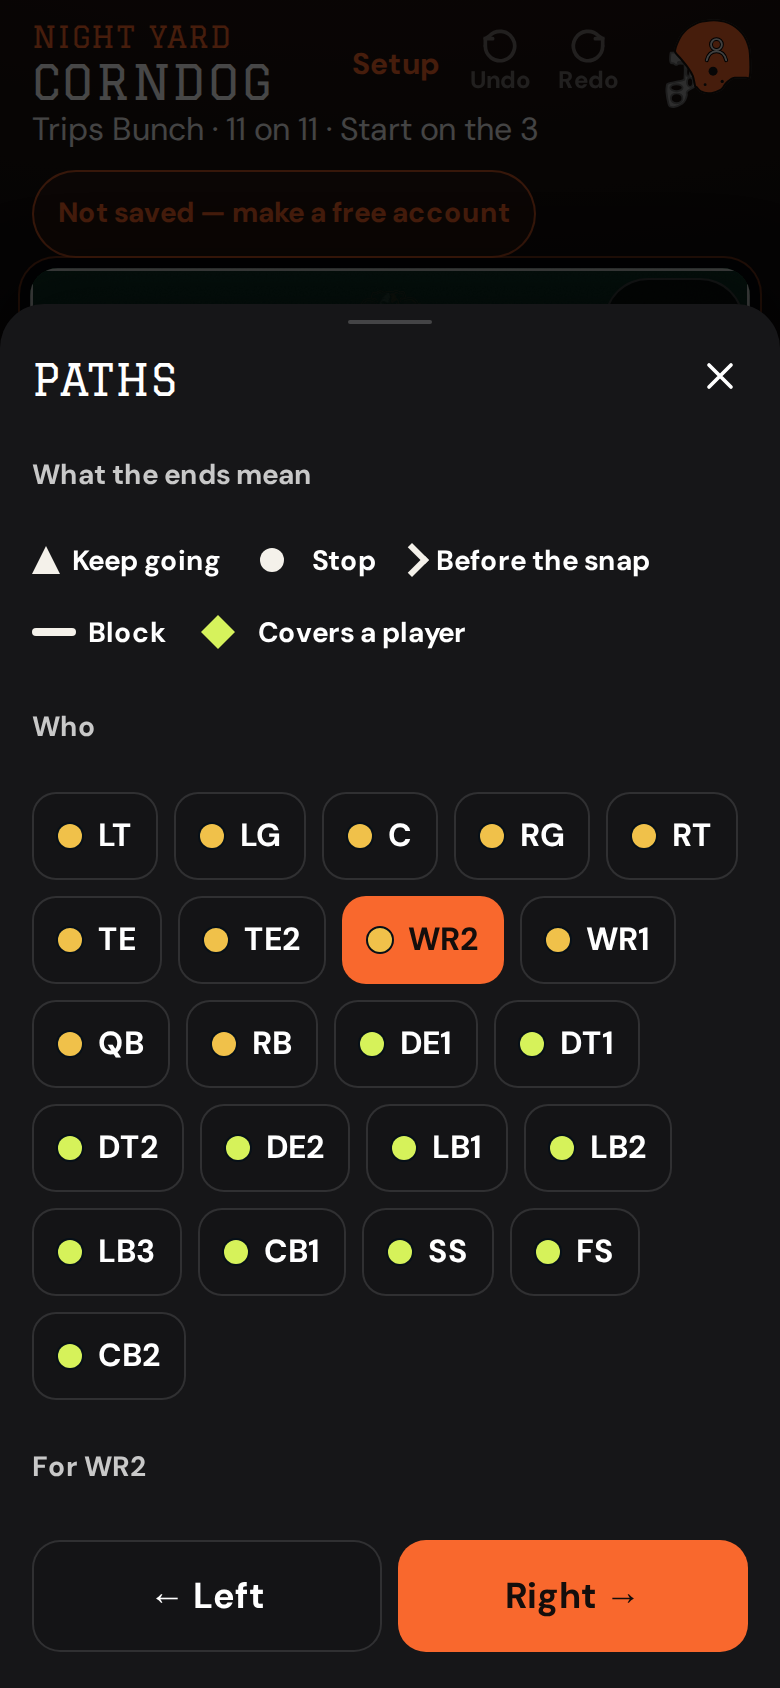
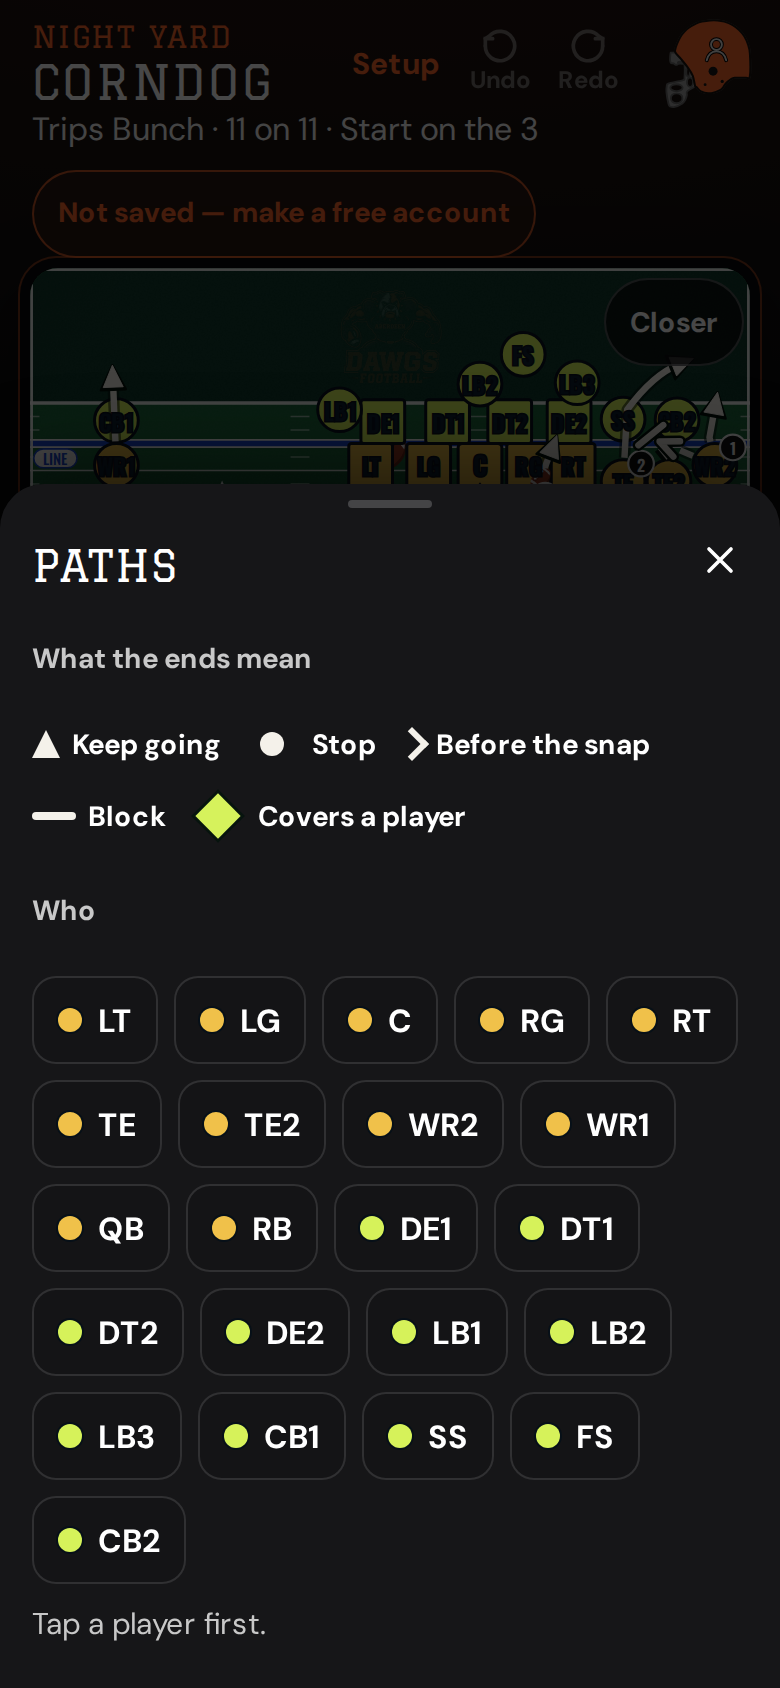
Let a short route bend when the finger is on the plus.
The nearest handle wins, man diamonds meet the line, and an unnamed playbook prints Night Yard once.

diff --git a/src/fieldMarkup.ts b/src/fieldMarkup.ts
@@ -113,7 +113,6 @@ function trimStroke(stroke: Stroke, yards: number): Stroke {
 }
 
 function headMarkup(kind: HeadKind, tip: Point, dir: Point, ink: RouteInk, color: string, halo: string, zone: { rx: number; ry: number } | null, scale: number, print: boolean): string {
-  const round = (ink.phone ? 1 : 1) / Math.max(ink.stroke / 3.2, 0.2)
   if (kind === 'zone' && zone) {
     const fill = print ? 'none' : color
     const opacity = print ? '' : ' fill-opacity="0.18"'
@@ -155,8 +154,9 @@ function headMarkup(kind: HeadKind, tip: Point, dir: Point, ink: RouteInk, color
     const uy = dir.y / len
     const px = -uy
     const py = ux
-    const reach = ink.head * 0.42
-    const wide = ink.headWidth * 0.28
+    const unit = (ink.phone ? 3.2 : 4) / ink.stroke
+    const reach = (ink.phone ? 8 : 9) / unit
+    const wide = reach * 0.72
     const pts = [
       { x: tip.x + ux * reach, y: tip.y + uy * reach },
       { x: tip.x + px * wide, y: tip.y + py * wide },
@@ -164,7 +164,8 @@ function headMarkup(kind: HeadKind, tip: Point, dir: Point, ink: RouteInk, color
       { x: tip.x - px * wide, y: tip.y - py * wide },
     ]
     const d = `M${pts.map((point) => `${point.x.toFixed(2)} ${point.y.toFixed(2)}`).join(' L')} Z`
-    return `<path d="${d}" fill="${halo}" stroke="${halo}" stroke-width="${ink.halo.toFixed(2)}" stroke-linejoin="round"/><path d="${d}" fill="${color}" stroke="${color}" stroke-width="${(round * 0.4).toFixed(2)}" stroke-linejoin="round"/>`
+    const edge = (1.6 / unit).toFixed(2)
+    return `<path d="${d}" fill="${halo}" stroke="${halo}" stroke-width="${edge}" stroke-linejoin="round"/><path d="${d}" fill="${color}" stroke="${halo}" stroke-width="${(1.1 / unit).toFixed(2)}" stroke-linejoin="round"/>`
   }
   const d = arrowPath(tip, dir, ink.head, ink.headWidth)
   const haloPath = arrowPath(tip, dir, ink.head + ink.halo, ink.headWidth + ink.halo * 2)
@@ -192,7 +193,8 @@ function routeParts(stroke: Stroke, play: Play, camera: Camera, theme: Theme, se
   if (shown.points.length < 2) return { body: '', head: '' }
   const { w, h } = viewSize(camera)
   const ink = routeInk(pxPerUnit, pxPerUnit * w, false)
-  shown = settleEnds(shown, play, ink.head / camera.scale)
+  const diamondHalf = (ink.phone ? 8 : 9) / pxPerUnit / camera.scale
+  shown = settleEnds(shown, play, headKind(shown) === 'diamond' ? diamondHalf : ink.head / camera.scale)
   const weight = selected ? 1.25 : 1
   const color = routeColor(shown, play, theme)
   const halo = theme.outlineOnly ? '#ffffff' : theme.routeOutline
@@ -202,14 +204,16 @@ function routeParts(stroke: Stroke, play: Play, camera: Camera, theme: Theme, se
   const fieldDir = segmentTangent(prev, end, shown.curves[shown.curves.length - 1] ?? null, 1)
   const dir = { x: fieldDir.x, y: -fieldDir.y }
   const tip = keepTipOnField(fieldToSvg(end, camera), dir, ink.head * 0.55, w, h)
-  const trimYards = kind === 'zone' ? 0 : ink.trim / camera.scale
+  const trimYards = kind === 'zone' ? 0 : kind === 'diamond' ? (ink.phone ? 8 : 9) / pxPerUnit / camera.scale : ink.trim / camera.scale
   const bodyStroke = trimStroke(shown, trimYards)
   const d = pathD(bodyStroke, camera)
   const dashed = shown.kind === 'motion'
   const dash = dashed ? ` stroke-dasharray="${ink.motionOn.toFixed(2)} ${ink.motionOff.toFixed(2)}"` : ''
   const opacity = dim ? ' opacity="0.65"' : ''
   const start = fieldToSvg(bodyStroke.points[0], camera)
-  const haloW = ((ink.stroke + ink.halo * 2) * weight).toFixed(2)
+  const haloPad = kind === 'bar' ? ink.halo * 3.2 : ink.halo * 2
+  const haloW = ((ink.stroke + haloPad) * weight).toFixed(2)
+  const haloOpacity = kind === 'bar' ? '0.95' : '0.55'
   const innerW = (ink.stroke * weight).toFixed(2)
   const highlight = selected
     ? `<path d="${d}" fill="none" stroke="#ffffff" stroke-width="${ink.highlight.toFixed(2)}" stroke-linecap="butt" stroke-linejoin="round"${dash} opacity="0.9"/>`
@@ -230,7 +234,7 @@ function routeParts(stroke: Stroke, play: Play, camera: Camera, theme: Theme, se
   const attrs = `${shown.preset ? ` data-preset="${shown.preset}"` : ''}${isZonePreset(shown.preset) ? ' data-zone="1"' : ''}${opacity}`
   return {
     body: `<g data-layer="route" data-stroke-id="${shown.id}"${attrs}>
-      <path d="${d}" fill="none" stroke="${halo}" stroke-width="${haloW}" stroke-linecap="butt" stroke-linejoin="round"${dash} stroke-opacity="0.55"/>
+      <path d="${d}" fill="none" stroke="${halo}" stroke-width="${haloW}" stroke-linecap="butt" stroke-linejoin="round"${dash} stroke-opacity="${haloOpacity}"/>
       <path d="${d}" fill="none" stroke="${color}" stroke-width="${innerW}" stroke-linecap="butt" stroke-linejoin="round"${dash}/>
       ${highlight}${ball}
     </g>`,
@@ -273,14 +277,36 @@ function settleEnds(stroke: Stroke, play: Play, headYards: number): Stroke {
   const ux = dx / len
   const uy = dy / len
   const far = Math.max(len, min)
-  return {
-    ...stroke,
-    points: [
-      { x: center.x + ux * reach, y: center.y + uy * reach },
-      { x: center.x + ux * far, y: center.y + uy * far },
-    ],
-    curves: [null],
+  const start = { x: center.x + ux * reach, y: center.y + uy * reach }
+  const tip = clearOfPlayers(start, { x: center.x + ux * far, y: center.y + uy * far }, play, owner.id)
+  return { ...stroke, points: [start, tip], curves: [null] }
+}
+
+/** Slide a block stem sideways until it misses the other names. */
+function clearOfPlayers(start: Point, end: Point, play: Play, ownerId: string): Point {
+  let tip = { ...end }
+  for (let pass = 0; pass < 4; pass++) {
+    for (const player of play.players) {
+      if (player.id === ownerId) continue
+      const mark = plantedMarker(player)
+      const vx = tip.x - start.x
+      const vy = tip.y - start.y
+      const length2 = vx * vx + vy * vy
+      if (length2 < 0.04) continue
+      const t = Math.min(1, Math.max(0, ((mark.x - start.x) * vx + (mark.y - start.y) * vy) / length2))
+      const near = { x: start.x + vx * t, y: start.y + vy * t }
+      const ox = mark.x - near.x
+      const oy = mark.y - near.y
+      const gap = markerReach(player.shape) + 0.55
+      const away = Math.hypot(ox, oy)
+      if (away >= gap) continue
+      const px = away < 0.05 ? -vy / Math.sqrt(length2) : -ox / away
+      const py = away < 0.05 ? vx / Math.sqrt(length2) : -oy / away
+      const push = gap - away + 0.2
+      tip = { x: tip.x + px * push, y: tip.y + py * push }
+    }
   }
+  return tip
 }
 
 function clearOfMarkers(point: Point, play: Play): Point {

diff --git a/src/hit.ts b/src/hit.ts
@@ -18,7 +18,7 @@ export type Hit =
 export function hitTest(
   play: Play,
   point: Point,
-  radii: { handle: number; player: number; stroke: number; marker?: number; cornerBias?: number; minBend?: number },
+  radii: { handle: number; player: number; stroke: number; marker?: number; minBend?: number },
   options: { showHandles: boolean; selectedStrokeId: string | null; preferPlayers: boolean },
 ): Hit {
   let nearestPlayer: { id: string; distance: number } | null = null
@@ -35,7 +35,7 @@ export function hitTest(
   // A finger on the marker itself is always that player, even if a route handle is closer.
   if (onMarker) return { type: 'player', id: onMarker.id }
   const handle = options.showHandles
-    ? nearestHandle(play, point, radii.handle, options.selectedStrokeId, radii.cornerBias ?? 0, radii.minBend ?? 0)
+    ? nearestHandle(play, point, radii.handle, options.selectedStrokeId, radii.minBend ?? 0)
     : null
   if (handle && !options.preferPlayers) return handle
   if (nearestPlayer) return { type: 'player', id: nearestPlayer.id }
@@ -53,14 +53,7 @@ export function hitTest(
   return { type: 'field' }
 }
 
-function nearestHandle(
-  play: Play,
-  point: Point,
-  radius: number,
-  strokeId: string | null,
-  cornerBias: number,
-  minBend: number,
-): Hit | null {
+function nearestHandle(play: Play, point: Point, radius: number, strokeId: string | null, minBend: number): Hit | null {
   const stored = play.strokes.find((item) => item.id === strokeId)
   if (!stored) return null
   const stroke = displayStroke(stored, play.players)
@@ -89,8 +82,8 @@ function nearestHandle(
       index: i,
     })
   }
-  if (best.point && cornerBias > 0 && best.point.distance <= cornerBias) return best.point.hit
-  if (best.point && best.bend) return best.point.distance <= best.bend.distance ? best.point.hit : best.bend.hit
+  // The handle under the finger wins. A tie goes to the bend, so a short leg can still curve.
+  if (best.point && best.bend) return best.bend.distance <= best.point.distance ? best.bend.hit : best.point.hit
   return best.point?.hit ?? best.bend?.hit ?? null
 }
 

diff --git a/src/hit.test.ts b/src/hit.test.ts
@@ -41,12 +41,46 @@ describe('player tap size', () => {
         curves: [null, null],
       },
     ]
-    const radii = { handle: 4, player: 3, stroke: 1, marker: 1.8, cornerBias: 2, minBend: 6 }
+    const radii = { handle: 4, player: 3, stroke: 1, marker: 1.8, minBend: 6 }
     const hit = hitTest(play, { x: 10.2, y: -3.8 }, radii, {
       showHandles: true,
       selectedStrokeId: 'line',
       preferPlayers: false,
     })
     expect(hit).toEqual({ type: 'player', id: player.id })
+  })
+
+  it('bends a short leg when the finger is nearer the plus than the corner', () => {
+    const play = createPlay({ format: '7v7', name: 'Bend' })
+    const player = play.players[0]
+    player.x = 20
+    player.y = -6
+    play.strokes = [
+      {
+        id: 'line',
+        playerId: player.id,
+        kind: 'route',
+        preset: null,
+        points: [
+          { x: 20, y: -6 },
+          { x: 20, y: 3 },
+        ],
+        curves: [null],
+      },
+    ]
+    // A 9-yard leg. The plus is in the middle. The corner's big hit circle still reaches it.
+    const radii = { handle: 6.5, player: 2, stroke: 1, marker: 0.5, minBend: 1 }
+    const onPlus = hitTest(play, { x: 20.15, y: -1.5 }, radii, {
+      showHandles: true,
+      selectedStrokeId: 'line',
+      preferPlayers: false,
+    })
+    expect(onPlus).toMatchObject({ type: 'handle', kind: 'bend', index: 0 })
+    const tie = hitTest(play, { x: 21, y: 0.75 }, radii, {
+      showHandles: true,
+      selectedStrokeId: 'line',
+      preferPlayers: false,
+    })
+    expect(tie).toMatchObject({ type: 'handle', kind: 'bend' })
   })
 })

diff --git a/src/exportSvg.test.ts b/src/exportSvg.test.ts
@@ -1,5 +1,5 @@
 import { describe, expect, it } from 'vitest'
-import { renderExportSvg, wrapText } from './exportSvg'
+import { exportFooter, renderExportSvg, wrapText } from './exportSvg'
 import { createPlay, showcasePlay } from './play'
 import { COLOR_TURF_A } from './theme'
 
@@ -31,5 +31,12 @@ describe('export svg', () => {
     expect(svg).toContain('>QB<')
     expect(svg).toContain('>LT<')
     expect(svg).toContain('11v11 tackle')
+  })
+
+  it('skips the default playbook name in the footer', () => {
+    expect(exportFooter()).toBe('NIGHT YARD')
+    expect(exportFooter('Night Yard')).toBe('NIGHT YARD')
+    expect(exportFooter('  night yard ')).toBe('NIGHT YARD')
+    expect(exportFooter('Dawgs')).toBe('NIGHT YARD · Dawgs')
   })
 })

diff --git a/src/usePlaybook.ts b/src/usePlaybook.ts
@@ -108,6 +108,12 @@ export function usePlaybook() {
     setUndoHold(Boolean(undo))
   }
 
+  function clearToast() {
+    setToast(null)
+    setToastUndo(null)
+    setUndoHold(false)
+  }
+
   function maybeAutosaveTip() {
     if (tipped.current || guestRef.current || !getSyncState().signedIn) return
     tipped.current = true
@@ -856,6 +862,7 @@ export function usePlaybook() {
     syncStatus: saveChip(saved, account, online, guest).label,
     saveKind: saveChip(saved, account, online, guest).kind,
     notify,
+    clearToast,
     flushSave,
     countInBook: (id: string) => plays.filter((item) => item.bookId === id).length,
     canUndo: history ? canUndo(history) : false,

diff --git a/src/components/Sheets.tsx b/src/components/Sheets.tsx
@@ -560,7 +560,7 @@ export function MoreSheet(props: {
       <HeadKey />
       <a class="row-btn about-link" href="https://github.com/siriusbontea/nightyard" target="_blank" rel="noreferrer">
         About Night Yard
-        <small>A play designer you can learn without a grown-up. Version 1.2.0</small>
+        <small>A play designer you can learn without a grown-up. Version 1.2.1</small>
       </a>
       <p class="fine">A free account saves plays on every device. Plays already on this phone stay here.</p>
     </Sheet>

diff --git a/src/styles.css b/src/styles.css
@@ -677,7 +677,7 @@ textarea { min-height: 96px; resize: vertical; }
   transform: rotate(-45deg);
 }
 .head-mark.bar { width: 22px; height: 4px; border-radius: 2px; background: #F4F1EA; }
-.head-mark.diamond { width: 12px; height: 12px; margin: 8px; background: #D6F25C; transform: rotate(45deg); }
+.head-mark.diamond { width: 16px; height: 16px; margin: 6px; background: #D6F25C; box-shadow: 0 0 0 1.5px #07140e; transform: rotate(45deg); }
 .about-link { text-decoration: none; color: inherit; }
 .kind-row {
   display: grid;

diff --git a/src/pwa.test.ts b/src/pwa.test.ts
@@ -11,7 +11,7 @@ describe('service worker', () => {
     expect(source).toContain('skipWaiting: false')
     expect(source).toContain('clientsClaim: true')
     expect(source).toContain('cleanupOutdatedCaches: true')
-    expect(source).toContain("cacheId: 'night-yard-5'")
+    expect(source).toContain("cacheId: 'night-yard-6'")
     expect(source).toContain("theme_color: '#F9682D'")
     expect(source).toContain("background_color: '#191919'")
     expect(source).toContain('icon-maskable-192.png')

diff --git a/vite.config.ts b/vite.config.ts
@@ -50,7 +50,7 @@ export default defineConfig(({ command }) => {
                 method,
               })),
               cleanupOutdatedCaches: true,
-              cacheId: 'night-yard-5',
+              cacheId: 'night-yard-6',
               // The new worker waits until the page asks it to take over, then claims open tabs.
               skipWaiting: false,
               clientsClaim: true,

diff --git a/src/exportSvg.ts b/src/exportSvg.ts
@@ -44,7 +44,8 @@ export function wrapText(text: string, maxChars: number): string[] {
 
 export function exportFooter(byline?: string): string {
   const name = (byline ?? '').trim()
-  return name ? `NIGHT YARD · ${name}` : 'NIGHT YARD'
+  if (!name || name.toLowerCase() === 'night yard') return 'NIGHT YARD'
+  return `NIGHT YARD · ${name}`
 }
 
 function themeFor(style: ExportStyle): Theme {

diff --git a/src/components/Field.tsx b/src/components/Field.tsx
@@ -178,7 +178,6 @@ export function Field(props: FieldProps) {
           player: playerHitYards(yardsFor),
           stroke: Math.max(1.05, yardsFor(18)),
           marker: Math.max(1.7, yardsFor(18)),
-          cornerBias: yardsFor(30),
           minBend: yardsFor(56),
         },
         {

diff --git a/src/components/App.tsx b/src/components/App.tsx
@@ -372,6 +372,7 @@ export function App() {
     setSelectedPlayerId(playerId)
     setSelectedStrokeId(mainStroke(next, playerId)?.id ?? null)
     book.update(next)
+    book.clearToast()
   }
 
   function addBook() {
